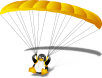
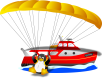
added the boat to make it easier to catch added more info on each item - -
2005-01-09  Bruno coudoin  <bruno.coudoin@free.fr>

	* boards/boardicons/tuxpara.png: added the boat to make it easier to catch
	* boards/chronos/board3_0.xml.in: added more info on each item
	* boards/chronos/board3_1.xml.in: -
	* boards/chronos/board3_2.xml.in: -
	* boards/chronos/board3_3.xml.in: -
	* boards/chronos/board3_4.xml.in: -
	* boards/searace.xml.in: updated the help
	* docs/C/python.xml: added a missing #define for BAR_REPEAT_ICON
	* src/boards/paratrooper.c: (paratrooper_next_level): make the boat larger initialy
	* src/boards/py-mod-gcompris.c: (python_gcompris_module_init): added missing BAR_REPEAT_ICON
	* src/boards/python/hexagon.py: removed useless comments. added a timeout on a win to let the kid see the strawberry
	* src/boards/python/searace.py: updated and completed.
	* src/boards/traffic.c: (cars_from_strv): changed a color too close to the background

Changed region(s): [[0.1765, 0.4359, 0.9706, 0.9487]]

diff --git a/src/boards/python/searace.py b/src/boards/python/searace.py
@@ -105,7 +105,13 @@ class Gcompris_searace:
 
     self.board_paused = False
 
-    gcompris.bar_set(gcompris.BAR_OK|gcompris.BAR_LEVEL|gcompris.BAR_REPEAT)
+    pixmap = gcompris.utils.load_pixmap(gcompris.skin.image_to_skin("button_reload.png"))
+    if(pixmap):
+      gcompris.bar_set_repeat_icon(pixmap)
+      gcompris.bar_set(gcompris.BAR_OK|gcompris.BAR_LEVEL|gcompris.BAR_REPEAT_ICON)
+    else:
+	gcompris.bar_set(gcompris.BAR_OK|gcompris.BAR_LEVEL|gcompris.BAR_REPEAT);
+    
     gcompris.set_background(self.gcomprisBoard.canvas.root(),
                             gcompris.skin.image_to_skin("gcompris-bg.jpg"))
     gcompris.bar_set_level(self.gcomprisBoard)
@@ -374,16 +380,22 @@ class Gcompris_searace:
       
     w = 250.0
     h = 100.0
-    y = 400.0
+    y = 400.0 # The upper limit of the text boxes
+    x_left  = gcompris.BOARD_WIDTH/4 - 30
+    x_right = (gcompris.BOARD_WIDTH/4)*3 + 30
+
     self.left_boat.tb = gtk.TextBuffer()
     self.left_boat.tv = gtk.TextView(self.left_boat.tb)
     self.left_boat.sw.add(self.left_boat.tv)
-    self.left_boat.tb.set_text("turnleft 45\nforward 1\nturnright 45")
+
+    command_example = _("droite") + " 45\n" + _("forward") + " 5\n" + _("gauche") + " 45"
+    self.left_boat.tb.set_text(command_example)
+    
     self.left_boat.tv.set_wrap_mode(gtk.WRAP_CHAR)
     self.rootitem.add(
       gnome.canvas.CanvasWidget,
       widget=self.left_boat.sw,
-      x=gcompris.BOARD_WIDTH/4,
+      x=x_left,
       y=y,
       width=w,
       height= h,
@@ -397,17 +409,18 @@ class Gcompris_searace:
     self.right_boat.sw.set_policy(gtk.POLICY_AUTOMATIC, gtk.POLICY_ALWAYS)
     self.right_boat.sw.set_shadow_type(gtk.SHADOW_ETCHED_OUT)
       
-    w = 250.0
-    h = 100.0
     self.right_boat.tb = gtk.TextBuffer()
     self.right_boat.tv = gtk.TextView(self.right_boat.tb)
     self.right_boat.sw.add(self.right_boat.tv)
-    self.right_boat.tb.set_text("turnright 45\nforward 1\nturnleft 45")
+
+    command_example = _("gauche") + " 45\n" + _("forward") + " 5\n" + _("droite") + " 45"
+    self.right_boat.tb.set_text(command_example)
+    
     self.right_boat.tv.set_wrap_mode(gtk.WRAP_CHAR)
     self.rootitem.add(
       gnome.canvas.CanvasWidget,
       widget=self.right_boat.sw,
-      x=(gcompris.BOARD_WIDTH/4)*3,
+      x=x_right,
       y=y,
       width=w,
       height= h,
@@ -421,7 +434,7 @@ class Gcompris_searace:
       gnome.canvas.CanvasText,
       text="",
       font=gcompris.skin.get_font("gcompris/content"),
-      x=gcompris.BOARD_WIDTH/4,
+      x=x_left,
       y=y-15,
       fill_color_rgba=0xFF0000FFL
       )
@@ -430,7 +443,7 @@ class Gcompris_searace:
       gnome.canvas.CanvasText,
       text="",
       font=gcompris.skin.get_font("gcompris/content"),
-      x=(gcompris.BOARD_WIDTH/4)*3,
+      x=x_right,
       y=y-15,
       fill_color_rgba=0X027308FFL
       )
@@ -450,7 +463,7 @@ class Gcompris_searace:
     item = self.rootitem.add(
       gnome.canvas.CanvasPixbuf,
       pixbuf = pixmap,
-      x=50,
+      x=25,
       y=y+40,
       anchor=gtk.ANCHOR_CENTER,
       )
@@ -460,12 +473,52 @@ class Gcompris_searace:
     item = self.rootitem.add(
       gnome.canvas.CanvasPixbuf,
       pixbuf = pixmap,
-      x=gcompris.BOARD_WIDTH-50,
+      x=gcompris.BOARD_WIDTH-25,
       y=y+40,
       anchor=gtk.ANCHOR_CENTER,
       )
     gcompris.utils.item_rotate_relative(item, -90);
 
+    # The commands
+    hl = 18
+    y += 7
+    text_color = 0x0000FFFFL
+    self.rootitem.add (
+      gnome.canvas.CanvasText,
+      text=_("COMMANDS ARE"),
+      font=gcompris.skin.get_font("gcompris/content"),
+      x=gcompris.BOARD_WIDTH/2,
+      y=y,
+      fill_color_rgba=text_color
+      )
+    
+    self.rootitem.add (
+      gnome.canvas.CanvasText,
+      text=_("forward"),
+      font=gcompris.skin.get_font("gcompris/content"),
+      x=gcompris.BOARD_WIDTH/2,
+      y=y+hl,
+      fill_color_rgba=text_color
+      )
+    
+    self.rootitem.add (
+      gnome.canvas.CanvasText,
+      text=_("left"),
+      font=gcompris.skin.get_font("gcompris/content"),
+      x=gcompris.BOARD_WIDTH/2,
+      y=y+hl*2,
+      fill_color_rgba=text_color
+      )
+    
+    self.rootitem.add (
+      gnome.canvas.CanvasText,
+      text=_("right"),
+      font=gcompris.skin.get_font("gcompris/content"),
+      x=gcompris.BOARD_WIDTH/2,
+      y=y+hl*3,
+      fill_color_rgba=text_color
+      )
+    
 
   # Weather condition is a 2 value pair (angle wind_speed)
   # Weather is a list of the form:
@@ -638,7 +691,7 @@ class Gcompris_searace:
       penalty*=2
     wind = cx*condition[1]*-1*penalty
     #print "Player " + str(boat.player) + "  wind_angle=" + str(abs(wind_angle)) + " condition=" + str(condition[1]) + " cx=" + str(cx) + "     wind=" + str(wind)
-    boat.speeditem.set(text = "Angle:" + str(condition[0]) + " Wind:" + str(int(wind)*-1))
+    boat.speeditem.set(text = _("Angle:") + str(condition[0]) + " " + _("Wind:") + str(int(wind)*-1))
     boat.timer = gtk.timeout_add(int(self.timerinc+wind), self.cmd_forward, boat, value)
 
     
@@ -687,7 +740,7 @@ class Gcompris_searace:
     boat.line+=1
     
     if (boat.line > boat.tb.get_line_count()):
-      print "No more commands to process for player " + str(boat.player)
+      # No more commands to process for this player
       boat.line = 0
       boat.timer = 0
       return
@@ -695,25 +748,32 @@ class Gcompris_searace:
     cmd   = boat.tb.get_text(a, b, gtk.FALSE)
     cmd   = cmd.lstrip("\n\t ")
     cmds  = cmd.split()
-    if ( len(cmds) != 2):
-      boat.speeditem.set(text=" Syntax error command at line " + str(boat.line) + " (" + cmd + ")")
+    # Manage default cases (no params given)
+    if ( len(cmds) == 1 and cmd.startswith(_("forward")) ):
+      cmd += " 1"
+    elif ( len(cmds) == 1 and cmd.startswith(_("gauche")) ):
+      cmd += " 45"
+    elif ( len(cmds) == 1 and cmd.startswith(_("droite")) ):
+      cmd += " 45"
+    elif ( len(cmds) > 2):
+      boat.speeditem.set(text=_("Syntax error at line") + " " + str(boat.line) + " (" + cmd + ")")
       boat.line = 0
       boat.timer = 0
       return
       
     value = int(cmd.split()[1])
     if( cmd.startswith(_("forward"))):
-      # Transform the value from user visiblee sea size to pixels
+      # Transform the value from user visible sea size to pixels
       value *= self.sea_ratio
 
       # Initialize the move
       boat.timer = gtk.timeout_add(self.timerinc, self.cmd_forward, boat, value)
-    elif( cmd.startswith(_("turnleft"))):
+    elif( cmd.startswith(_("left"))):
       boat.timer = gtk.timeout_add(self.timerinc, self.cmd_turn_left, boat, value)
-    elif( cmd.startswith(_("turnright"))):
+    elif( cmd.startswith(_("right"))):
       boat.timer = gtk.timeout_add(self.timerinc, self.cmd_turn_left, boat, value*-1)
     else:
       boat.line = 0
       boat.timer = 0
-      boat.speeditem.set(text="Unknown command at line " + str(boat.line) + "(" + cmd + ")")
+      boat.speeditem.set(text=_("Unknown command at line") + " " + str(boat.line) + "(" + cmd + ")")
 

diff --git a/src/boards/python/hexagon.py b/src/boards/python/hexagon.py
@@ -34,9 +34,8 @@ class Gcompris_hexagon:
   
   def __init__(self, gcomprisBoard):
     self.gcomprisBoard = gcomprisBoard
-    print("Gcompris_minouche __init__.")
     self.rootitem = None
-
+    self.timer    = 0
 
   def start(self): 
     gcompris.bar_set (0)
@@ -51,17 +50,28 @@ class Gcompris_hexagon:
     self.random_catx = random.randrange(21)
     self.random_caty = random.randrange(15)
 
-    print("Gcompris_minouche start.")
 
   def end(self):
     self.cleanup()
-    print("Gcompris_minouche end.")
         
   def ok(self):
     print("Gcompris_minouche ok.")
 
+  def key_press(self, keyval):
+    #print("got key %i" % keyval)
+    return
+
+  
+  # ----------------------------------------------------------------------
+  # ----------------------------------------------------------------------
+  # ----------------------------------------------------------------------
+
+
   def cleanup(self):
-    
+
+    if(self.timer):
+      gtk.timeout_remove(self.timer)
+
     # Remove the root item removes all the others inside it
     if self.rootitem != None: 
      self.rootitem.destroy()
@@ -116,19 +126,24 @@ class Gcompris_hexagon:
     color = r*0x1000000+g*0x10000+b*0x100+0xFF
     return color
     
+  def finished(self):
+    gcompris.bonus.board_finished(gcompris.bonus.FINISHED_RANDOM)
+    self.timer = 0
+    
   def on_click (self, widget, event=None, x=0, y=0):
     if event.type == gtk.gdk.BUTTON_PRESS and event.button == 1 :
       
      catdistance = self.distance_cat(x,y)
-     print self.random_catx, self.random_caty,x,y,catdistance
+     #print self.random_catx, self.random_caty,x,y,catdistance
                              
-     color = self.coloring (catdistance/30.0)
-     widget.set(fill_color_rgba=color);
-     
      if catdistance<0.1:
       self.paint_cat()
-      gcompris.bonus.board_finished(gcompris.bonus.FINISHED_RANDOM)
+      self.timer = gtk.timeout_add(5000, self.finished) 
+     else:
+       color = self.coloring (catdistance/30.0)
+       widget.set(fill_color_rgba=color);
      
+
   def paint_cat(self):
     position =19+self.sqrt3*self.r*self.random_catx
     if self.random_caty%2:
@@ -138,10 +153,10 @@ class Gcompris_hexagon:
     h2 = 30
     w2 = pixbuf2.get_width()*h2/pixbuf2.get_height()
     self.rootitem.add(gnome.canvas.CanvasPixbuf, 
-     pixbuf=pixbuf2.scale_simple(w2, h2,
-                         gtk.gdk.INTERP_BILINEAR),
-    x=position,
-    y=14+1.5*self.random_caty*self.r)
+                      pixbuf=pixbuf2.scale_simple(w2, h2,
+                                                  gtk.gdk.INTERP_BILINEAR),
+                      x=position,
+                      y=14+1.5*self.random_caty*self.r)
     
   def distance_cat (self,x,y):
     dx = self.random_catx-x-int(self.random_caty/2)

diff --git a/src/boards/py-mod-gcompris.c b/src/boards/py-mod-gcompris.c
@@ -633,11 +633,12 @@ void python_gcompris_module_init(void)
   PyModule_AddStringConstant(gcomprisModule, "DEFAULT_SKIN", DEFAULT_SKIN);
 
   /* The GComprisBarFlags enum constants */
-  PyModule_AddIntConstant(gcomprisModule, "BAR_LEVEL",  GCOMPRIS_BAR_LEVEL);
-  PyModule_AddIntConstant(gcomprisModule, "BAR_OK",     GCOMPRIS_BAR_OK);
-  PyModule_AddIntConstant(gcomprisModule, "BAR_REPEAT", GCOMPRIS_BAR_REPEAT);
-  PyModule_AddIntConstant(gcomprisModule, "BAR_CONFIG", GCOMPRIS_BAR_CONFIG);
-  PyModule_AddIntConstant(gcomprisModule, "BAR_ABOUT",  GCOMPRIS_BAR_ABOUT);
+  PyModule_AddIntConstant(gcomprisModule, "BAR_LEVEL",       GCOMPRIS_BAR_LEVEL);
+  PyModule_AddIntConstant(gcomprisModule, "BAR_OK",          GCOMPRIS_BAR_OK);
+  PyModule_AddIntConstant(gcomprisModule, "BAR_REPEAT",      GCOMPRIS_BAR_REPEAT);
+  PyModule_AddIntConstant(gcomprisModule, "BAR_REPEAT_ICON", GCOMPRIS_BAR_REPEAT_ICON);
+  PyModule_AddIntConstant(gcomprisModule, "BAR_CONFIG",      GCOMPRIS_BAR_CONFIG);
+  PyModule_AddIntConstant(gcomprisModule, "BAR_ABOUT",       GCOMPRIS_BAR_ABOUT);
 
   /* Colors constants */
   PyModule_AddIntConstant(gcomprisModule, "COLOR_TITLE",       COLOR_TITLE);

diff --git a/src/boards/paratrooper.c b/src/boards/paratrooper.c
@@ -1,6 +1,6 @@
 /* gcompris - paratrooper.c
  *
- * Time-stamp: <2004/10/21 22:48:19 bruno>
+ * Time-stamp: <2005/01/09 02:56:01 bruno>
  *
  * Copyright (C) 2000 Bruno Coudoin
  *
@@ -352,7 +352,7 @@ static void paratrooper_next_level()
   speed=100+(30/(gcomprisBoard->level));
   gcomprisBoard->number_of_sublevel=0;
   /* Make the images tend to 0.5 ratio */
-  imageZoom=0.3+(0.4/(gcomprisBoard->level));
+  imageZoom=0.4+(0.4/(gcomprisBoard->level));
 
   /* Setup and Display the plane */
   planespeed_y = 0;

diff --git a/src/boards/traffic.c b/src/boards/traffic.c
@@ -711,7 +711,7 @@ gint cars_from_strv(char *strv)
     else if (id == 'E') ccar->color = 0xC00000FF;
     else if (id == 'F') ccar->color = 0x008000FF;
     else if (id == 'G') ccar->color = 0xC0C0C0FF;
-    else if (id == 'H') ccar->color = 0xFFCC51FF;
+    else if (id == 'H') ccar->color = 0x6000efFF;
     else if (id == 'I') ccar->color = 0xFFFF00FF;
     else if (id == 'J') ccar->color = 0xFFA801FF;
     else if (id == 'K') ccar->color = 0x00FF00FF;
